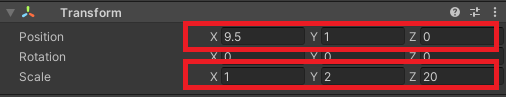
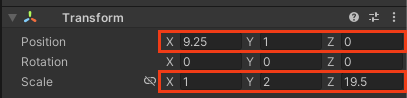
Adding in new tilt steps

diff --git a/en/step_3.md b/en/step_3.md
@@ -13,24 +13,13 @@ In this step you will create a mirror ball and add a script to roll the mirror b
 
 --- task ---
 
-Click on the **View tool** in the Scene view (the hand icon) and drag the view until you are happy with the view of the dance floor. Right-click on the Main Camera object in the Hierarchy window and select 'Align With View':
-
-[[[unity-scene-navigation]]]
-
---- collapse ---
----
-title: Alternatively, enter transform numbers to move the camera
----
-
 Select the 'Main Camera' in the hierarchy window and change the position and rotate properties to match the following:
 
-Position X=`-16`, Y=`15`, Z=`-16` and Rotate X=`35`, Y=`45`, Z=`1`. 
+Position X=`0`, Y=`25`, Z=`-5` and Rotate X=`80`, Y=`0`, Z=`0`. 
 
-Right-click on the 'Main Camera' and choose 'Align View to Selected' to match the scene view to the new camera position. 
+Right-click on the 'Main Camera' and choose 'Align View to Selected' to match the scene view to the new camera position.
 
---- /collapse ---
-
-![A screenshot of the Scene view showing the disco floor. The view is looking from above and behind one corner of the floor and is looking down at a 35 degree angle.](images/camera-view.png)
+![A screenshot of the Scene view showing the disco floor. The view is looking from above at a 80 degree angle.](images/camera-view.png)
 
 --- /task ---
 
@@ -90,36 +79,28 @@ With the 'Ball' selected. Press <kbd>Shift</kbd> + <kbd>F</kbd> to shift focus t
 
 --- /task ---
 
-### Move the ball
+### Tilt the dance floor
 
 --- task ---
 
-Go to the hierarchy window and select the 'Ball' GameObject. In the Inspector, click 'Add Component' and type `BallController`. 
+Go to the hierarchy window and select the 'Ball' GameObject. In the Inspector, click 'Add Component' and type `FloorTilt`.
 
-Select the BallController Script.
+Click 'New script' and then 'Create and Add' to create the script. 
 
---- collapse ---
+The new script will be saved in your assets folder, drag it to the 'Scripts' folder to organise your files.
 
----
-title: I don't have a BallController script
----
+--- /task ---
 
-Create a new script called `BallController` by clicking 'New script' and then 'Create and Add':
+--- task ---
 
-![A screenshot of the Inspector New Script menu with title `BallController` and button 'Create and Add'.](images/new-ball-script.png)
+Open 'FloorTilt' in your code editor. 
 
-Go to the Project window. The new 'BallController' script will be saved in the Assets folder. Drag the new script to the ‘Scripts’ folder to organise your files.
-
-![A screenshot of the Projects window Asset folder contents. The BallController script is highlighted.](images/assets-script.png)
-
-Double click on the ‘BallController’ script. The script will open in a separate code editor.
-
-Copy or type this code to make the ball move:
+Type out or copy and paste the following code into the script.
 
 --- code ---
 ---
 language: cs
-filename: BallController.cs
+filename: FloorTilt.cs
 line_numbers: true
 line_number_start: 1
 line_highlights: 
@@ -129,55 +110,60 @@ using System.Collections;
 using System.Collections.Generic;
 using UnityEngine;
 
-public class BallController : MonoBehaviour
+public class FloorTilt : MonoBehaviour
 {
-    private Rigidbody rb;
-    public Transform cameraTransform;
-    public string rightKey;
+    public float maxTilt;
+    public float turnSpeed;
+
+    public string forwardKey;
     public string leftKey;
-    public string upKey;
-    public string downKey;
-    
-    // Start is called before the first frame update
-    void Start()
-    {
-        rb = GetComponent<Rigidbody>();
-        rb.transform.forward = cameraTransform.forward;
-    }
+    public string backwardKey;
+    public string rightKey;
 
     // Update is called once per frame
-    void FixedUpdate()
+    void Update()
     {
-        Vector3 forward = new Vector3(cameraTransform.forward.x, 0, cameraTransform.forward.z).normalized;
-        Vector3 right = Quaternion.AngleAxis(90, Vector3.up) * forward;
-        Vector3 left = -right;
-        Vector3 backward = -forward;
+        float targetXRotation = 0;
 
-        if (Input.GetKey(rightKey))
-        {
-            rb.AddForce(right * 5f);
+        if (Input.GetKey(forwardKey)){
+            targetXRotation += maxTilt;
         }
 
-        if (Input.GetKey(leftKey))
-        {
-            rb.AddForce(left * 5f);
+        if (Input.GetKey(backwardKey)){
+            targetXRotation += 360 - maxTilt;
         }
 
-        if (Input.GetKey(upKey))
-        {
-            rb.AddForce(forward * 10f);
+        float targetZRotation = 0;
+
+        if (Input.GetKey(rightKey)){
+            targetZRotation += 360 - maxTilt;
         }
 
-        if (Input.GetKey(downKey))
-        {
-            rb.AddForce(backward * 2f);
+        if (Input.GetKey(leftKey)){
+            targetZRotation += maxTilt;
         }
+
+        Quaternion targetRotation = Quaternion.Euler(targetXRotation, 0, targetZRotation);
+
+        transform.rotation = Quaternion.Lerp(transform.rotation, targetRotation, turnSpeed * Time.deltaTime);
     }
 }
 
 --- /code ---
 
-Save your script and switch back to the Unity editor.
+--- collapse ---
+
+---
+title: What is Lerp?
+---
+
+Lerp is used in Unity to transition between two `Vectors` or `Quaternions` (rotations). 
+
+This method will return a value in between the two Vectors or Quaternions you provide. 
+
+In this case the GameObject will rotate from it's current rotation (`transform.rotation`) towards the `targetRotation` you have set with the key presses.
+
+When you let go of the keys the floor will slowly move back to it's starting rotation.
 
 --- /collapse ---
 
@@ -185,28 +171,38 @@ Save your script and switch back to the Unity editor.
 
 --- task ---
 
-Save your script and switch back to the Unity Editor and click on the 'Ball' GameObject in the Hierarchy window.
+Save your script and switch back to the Unity Editor and click on the 'Dance Floor' GameObject in the Hierarchy window.
 
-Find the 'Camera Transform' property of the Ball's BallController script in the Inspector window.
+Find the 'FloorTilt' component and set 'Max Tilt' to `25` and 'Turn Speed' to `1`. 
 
-Click on the circle to the right of the Camera Transform property and choose the 'Main Camera' GameObject:
+--- collapse ---
 
-![The BallController script component on the Ball with Camera Transform property dropdown menu and 'Main Camera' selected.](images/camera-transform-script.png)
+---
+title: What do these variables do?
+---
 
-Set the key variables to whichever keys you want to use to control your ball:
+The `maxTilt` variable is used to control how **far** the world will be rotated, you can make this larger if you want more rotation and smaller if you want less.
 
-![Screenshot of the BallController component with the keys set as: up = w, left = a, down = s and right = d]()
+`turnSpeed` controls how fast the world rotates, if you make it larger the floor will rotate faster. Be careful not to make it too fast otherwise the `Ball` might fly off your dance floor.
+
+--- /collapse ---
+
+**Choose:** Set the keys you would like to use for tilting your world, we have used the <kbd>WASD</kbd> layout.
 
 --- collapse ---
 ---
 title: I want to use different keys
 ---
 
+You can set whichever keys you would like to use in the Inspector. For letter keys just make sure the letters are **lower case**. 
+
+You can also use the arrows by entering `up` and `down` into the Inspector.
+
 If you want to know the naming conventions to use for the other keys on your keyboard then you can visit the [Unity Documentation](https://docs.unity3d.com/Manual/class-InputManager.html){:target="_blank"}.
 
-You can enter the names into the Inspector.
-
 --- /collapse ---
+
+![The FloorTilt script component on the Dance Floor with the variables 'Max Tilt' set to 25, 'Turn Speed' set to 1, `Forward Key` set to w, 'Left Key' set to a, 'Backward Key` set to s and 'Right key' set to d](images/floor-tilt-script.png).
 
 --- /task ---
 
@@ -216,7 +212,7 @@ You can enter the names into the Inspector.
 
 Use the keys you set in the Inspector to move the ball across the floor: 
 
-![A short animation showing the ball rolling across the tiled floor.](images/move-ball.gif)
+![A short animation showing the ball rolling across the tiled floor.](images/floor-tilt-demo.gif)
 
 Press the 'Play' button again to stop running your project. 
 

diff --git a/en/step_2.md b/en/step_2.md
@@ -11,7 +11,7 @@ In this step you will build the disco dance floor for your project.
 
 --- task ---
 
-Launch the Unity Hub and open the project you created for [Rainbow run](https://projects.raspberrypi.org/en/projects/star-collector/0){:target='_blank'}.
+Launch the Unity Hub and open the project you created for [Rainbow run](https://projects.raspberrypi.org/en/projects/rainbow-run/0){:target='_blank'}.
 
 --- collapse ---
 
@@ -125,7 +125,7 @@ Go to the Hierarchy and right-click on the 'Dance Floor' GameObject. Select **3D
 
 ![The Hierarchy window with the 'Dance Floor' GameObject expanded. Inside is a 'Floor' GameObject and a new 'Cube' GameObject.](images/hierarchy-wall.png)
 
-In the Inspector window, change the Transform properties of the new cube: Position X=`9.5`, Y=`1`, Z=`0` and Scale X=`1`, Y=`2`, Z=`20`. 
+In the Inspector window, change the Transform properties of the new cube: Position X=`9.25`, Y=`1`, Z=`0` and Scale X=`1`, Y=`2`, Z=`19.5`. 
 
 ![The Inspector window with the Transform property showing updated values.](images/transform-wall.png)
 
@@ -137,7 +137,7 @@ In the Inspector window, change the Transform properties of the new cube: Positi
 
 Go to the Hierarchy and right-click on the 'Cube' GameObject. Select **Duplicate**.
 
-In the Inspector window, change the Transform properties of the new cube to. Position X=`-9.5`.
+In the Inspector window, change the Transform properties of the new cube to. Position X=`-9.25`.
 
 ![The Stage view with the tiles and two wall positioned opposite each other.](images/second-wall.png)
 
@@ -147,7 +147,7 @@ In the Inspector window, change the Transform properties of the new cube to. Pos
 
 Go to the Hierarchy and right-click on the original 'Cube' GameObject again. Select **Duplicate**.
 
-In the Inspector window, change the Transform properties of the new cube to Position X=`0`, Y=`1`, Z=`9.5` and Rotation X=`0`, Y=`90`, Z=`0`.
+In the Inspector window, change the Transform properties of the new cube to Position X=`0`, Y=`1`, Z=`9.25` and Rotation X=`0`, Y=`90`, Z=`0`.
 
 ![The Stage view with the tiles and three walls.](images/third-wall.png)
 
@@ -157,7 +157,7 @@ In the Inspector window, change the Transform properties of the new cube to Posi
 
 Go to the Hierarchy and right-click on the 'Cube (2)' GameObject you just rotated. Select **Duplicate**.
 
-In the Inspector window, change the Transform properties of the new cube to Position Z=`-9.5`.
+In the Inspector window, change the Transform properties of the new cube to Position Z=`-9.25`.
 
 ![The Stage view with the tiles and four walls framing the tiles.](images/fourth-wall.png)
 

diff --git a/en/step_1.md b/en/step_1.md
@@ -1,16 +1,17 @@
 ## You will make
 
-Create a tiled disco dance floor. Roll a mirror ball over the tiles to change their colour and play sounds.
+Create a tiled disco dance floor. Tilt the floor to roll a mirror ball over the tiles to change their colour and play sounds.
 
 You will:
 
 + Create a skybox material and add it to the scene
++ Create a level that you can tilt to move a ball around
 + Add a spotlight and amend the directional light to create different lighting effects
 + Apply sounds and random colours to an object on collision
 
 --- no-print ---
 
-Control the movement of the mirror ball using <kbd>WASD</kbd> (or <kbd>ZQSD</kbd>) or the arrow keys. Use <kbd>Space</kbd> to jump. See and hear what happens when you roll over a tile.  
+Control the rotation of the dance floor using <kbd>WASD</kbd> (or <kbd>ZQSD</kbd>) or the arrow keys. See and hear what happens when you the ball rolls over a tile.  
 
 <iframe allowtransparency="true" width="710" height="450" src="https://to.be.added.html" frameborder="0"></iframe>
 
